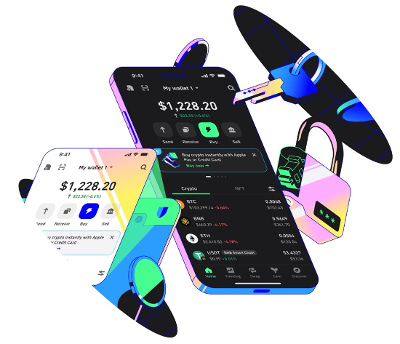
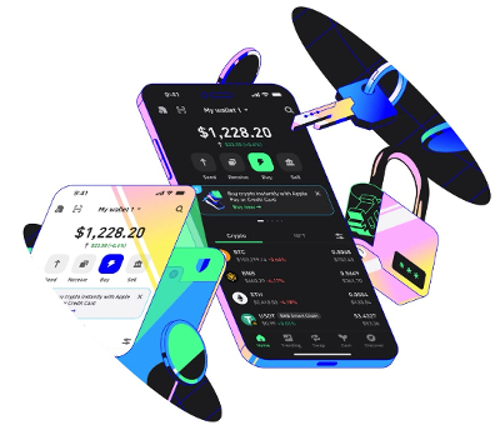
Add files via upload

diff --git a/style.css b/style.css
@@ -22,9 +22,9 @@ header {
   position: sticky;
   top: 0;
   background: #ffffffdd;
-  backdrop-filter: blur(12px);
-  border-bottom: 1px solid #0b3fd9;
-  z-index: 5;
+  backdrop-filter: none;
+  border-bottom: none;
+  z-index: 9;
 }
 
 .nav {
@@ -37,7 +37,7 @@ header {
 }
 
 .nav b {
-  letter-spacing: 2px;
+  letter-spacing: 1px;
 }
 
 .nav b span {
@@ -49,7 +49,7 @@ header {
 nav {
   margin-left: auto;
   display: flex;
-  gap: 22px;
+  gap: 20px;
 }
 
 nav a {
@@ -112,7 +112,7 @@ nav a {
 .nav-links a {
   font-size: 0.9rem;
   font-weight: 500;
-  color: rgba(6, 24, 220, 0.88);
+  color: rgba(0, 1, 6, 0.88);
   padding: 10px 16px;
   border-radius: 25px;
   transition: var(--transition);
@@ -133,7 +133,7 @@ nav a {
   padding: 9px 20px !important;
   border-radius: 7px;
   font-weight: 700 !important;
-  box-shadow: 0 2px 12px rgba(0,0,0,0.12);
+  box-shadow: 0 2px 12px rgba(61, 4, 232, 0.12);
 }
 .nav-cta:hover {
   background: var(--gray-100) !important;
@@ -215,6 +215,22 @@ section {
   align-items: center;
 }
 
+.hero-image img {
+    width: 420px;
+    max-width: 100%;
+    height: auto;
+
+    border-radius: 20px;
+
+    box-shadow: 0 15px 40px rgba(0, 0, 0, 0.12);
+
+    transition: transform 0.3s ease;
+}
+
+.hero-image img:hover {
+    transform: translateY(-5px);
+}
+
 .hero small,
 section > small {
   letter-spacing: 2px;
@@ -242,14 +258,81 @@ article p {
 }
 
 
+.hero {
+    display: flex;
+    flex-direction: row;
+    align-items: center;
+    justify-content: space-between;
+    gap: 60px;
+
+    padding: 140px 8% 80px;
+    min-height: 80vh;
+}
+
+.hero-content {
+    flex: 1;
+    max-width: 600px;
+}
+
+.hero-image {
+    flex: 1;
+    display: flex;
+    justify-content: center;
+    align-items: center;
+}
+
+.hero-image img {
+    width: 100%;
+    max-width: 450px;
+    height: auto;
+    border-radius: 20px;
+}
+
+
+/* ===== MOBILE RESPONSIVE ===== */
+
+@media (max-width: 768px) {
+
+    .navbar {
+        padding: 15px 20px;
+    }
+
+    .hero {
+        flex-direction: column;
+        text-align: center;
+        gap: 40px;
+
+        padding: 120px 20px 50px;
+    }
+
+    .hero-content {
+        max-width: 100%;
+    }
+
+    .hero-image {
+        width: 100%;
+        order: 2;
+    }
+
+    .hero-image img {
+        width: 100%;
+        max-width: 350px;
+    }
+
+    .hero-buttons {
+        justify-content: center;
+        flex-wrap: wrap;
+    }
+}
+
 /* HERO CARD */
 
 .card,
 .balance,
 .grid article,
 .transactions {
-  border: 1px solid #282c36;
-  background: #10131a;
+  border: 1px solid #ebecee;
+  background: #074be9;
   border-radius: 20px;
 }
 
@@ -531,8 +614,8 @@ footer {
 body {
     min-height: 100vh;
     background:
-        radial-gradient(circle at top, #f5f7f6 0%, #f6f8f7 45%, #fcfefd 100%);
-    color: #0b4ce2;
+        radial-gradient(circle at top, #f5f7f6 0%, #f6f8f7 45%, #ffff 100%);
+    color: #000104;
 }
 
 /* =========================

diff --git a/index.html b/index.html
@@ -13,7 +13,6 @@
     <div class="container nav-inner">
     <div class="nav-mark">
       <img src="trust-logo.jpeg" alt="TRUST crest logo" class="nav-logo">
-      <b>TRUST</b>
     </div>
     
     <div nav class="nav-links">
@@ -21,8 +20,9 @@
       <a href="#features">Features</a>
       <a href="#security">Security</a>
       <a href="wallet.html">Wallet</a>
+      <a href="wallet.html" class="nav-cta">launch wallet</a>
     </nav>
- <button class="nav-links" aria-label="Menu">☰</button>
+
   </div>
 </header>
 
